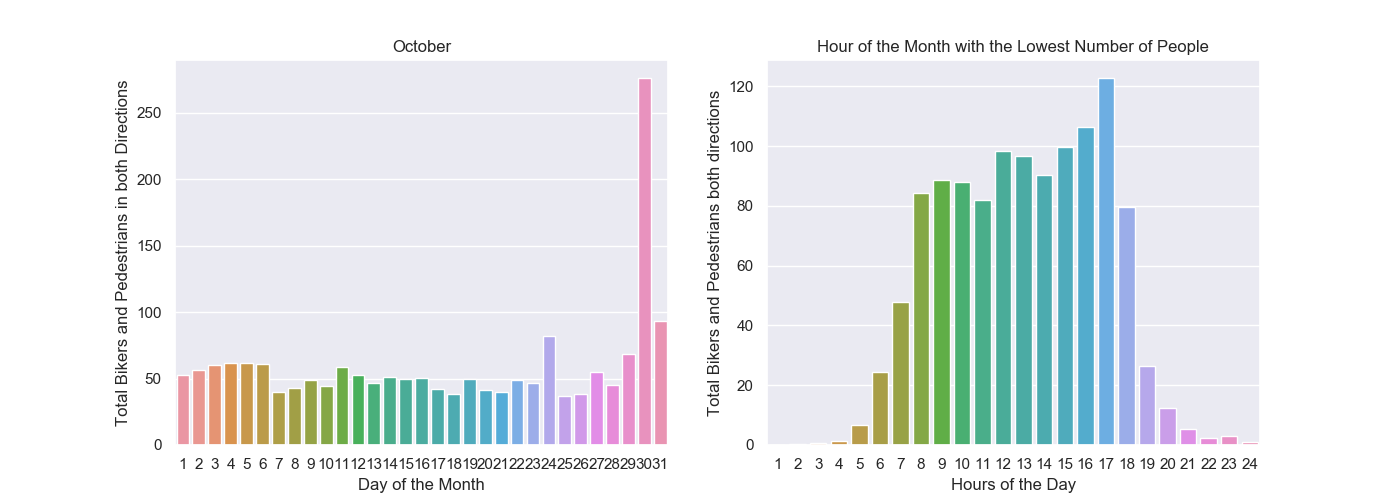
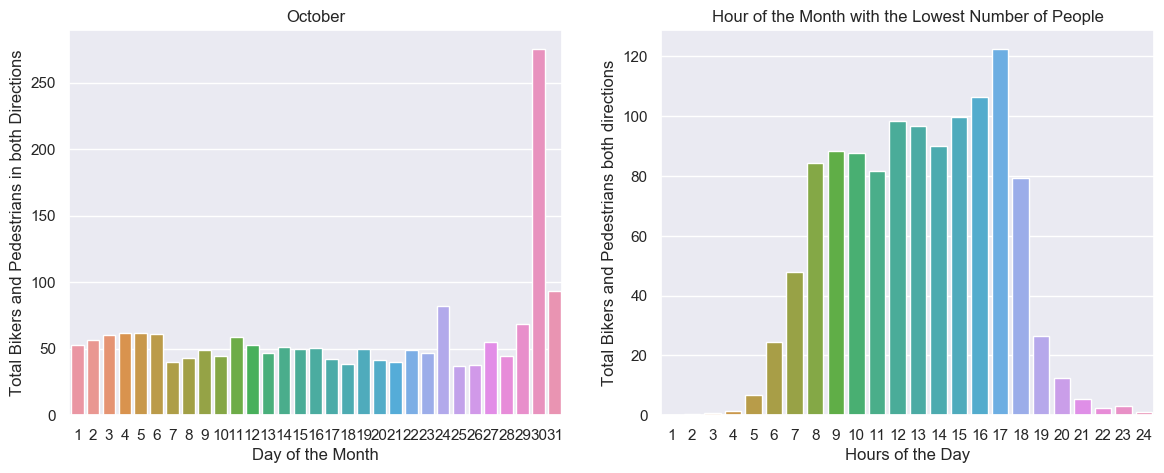
updated comments and graphs

diff --git a/monthly.py b/monthly.py
@@ -22,7 +22,7 @@ def graph_months(df):
                                 as_index=False)[month_df.columns[:5]].mean()
         graph_titles(ax, month)
         sns.barplot(x='DAY', y='Total', data=data, ax=ax)
-    fig.savefig('plots/monthly.png')
+    fig.savefig('plots/monthly.png', bbox_inches='tight')
 
 
 def graph_day(df, month, month_index, res):
@@ -42,7 +42,7 @@ def graph_day(df, month, month_index, res):
     graph_titles(ax2, None, True)
     sns.barplot(ax=ax1, x='DAY', y='Total', data=user_month_grouped)
     graph_titles(ax1, month_index - 1)
-    fig.savefig('plots/' + month.lower() + '.png')
+    fig.savefig('plots/' + month.lower() + '.png', bbox_inches='tight')
 
 
 def graph_titles(ax, month, day=False):
@@ -82,6 +82,8 @@ def lowest(df, month=None):
     the lowest hour (hour by hour) and outputs the lowest hour for that month
     """
     if month is not None and month_to_index(month) is None:
+        print('Invalid month name')
+        get_lowest_for_user(df)
         return
     res = dict()
     grouped_by_month = df.groupby('MONTH')
@@ -134,6 +136,11 @@ def month_to_index(month, Jan_is_one=False):
 
 
 def get_lowest_for_user(trail_df):
+    """
+    Prompts the user for a month. Calls lowest to print and plot the hour of
+    the month with the lowest trail usage. If 'ALL' is specified instead of a
+    month, the lowest hour for all months is plotted and printed.
+    """
     print('This function will give you the time with the least number of '
           + 'people on the trail')
     inp = input('type the month name or \'ALL\' for all months: ')
@@ -142,9 +149,10 @@ def get_lowest_for_user(trail_df):
     else:
         lowest(trail_df, inp)
 
+
 def main():
     """
-    Imports data, sets up seaborn, and calls the lowest function
+    Imports data, sets up seaborn, and calls the user input function
     """
     dg = DataGetter()
     trail_data = dg.get_trail_data()
